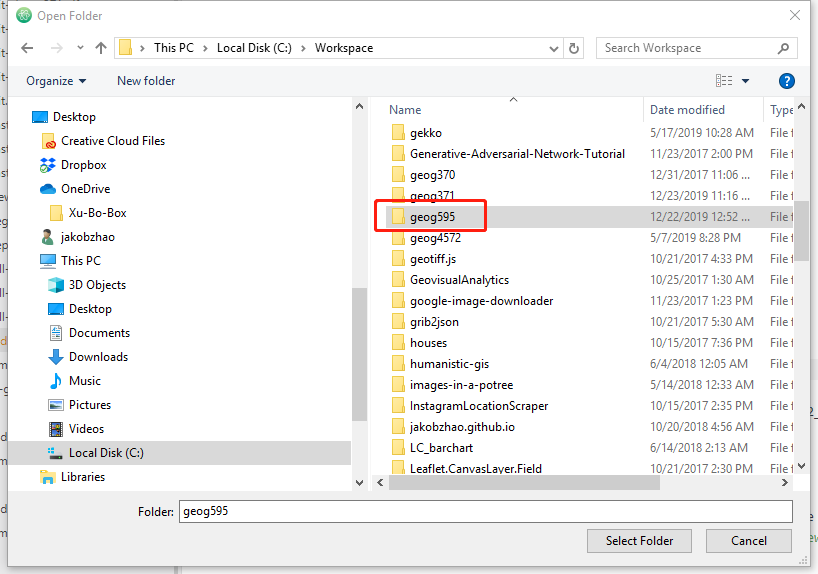
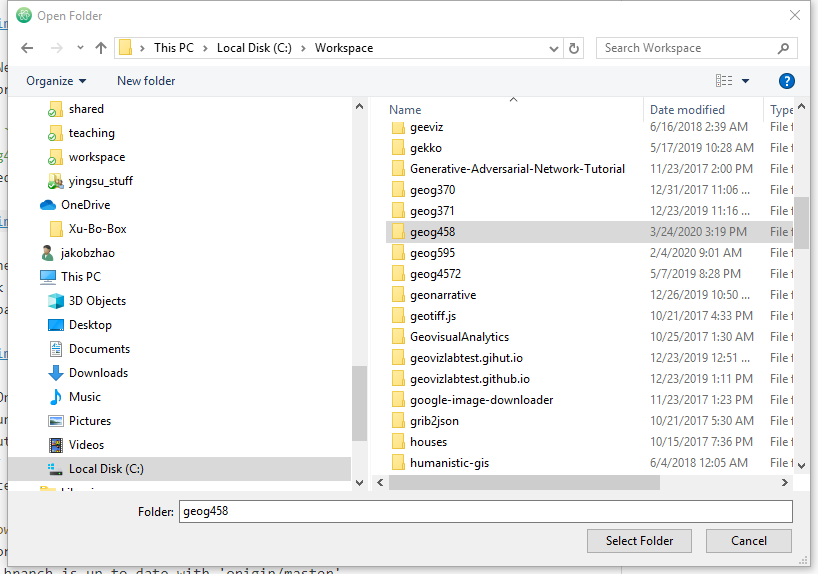
update

diff --git a/labs/lab01/readme.md b/labs/lab01/readme.md
@@ -52,11 +52,11 @@ A GitHub account is needed for managing and synchronizing your cloud based proje
 
 I decide to host all course material on GitHub instead of Canvas system. By doing so, my goal is not to create extra trouble or sharp the learn curve. Instead, hosting on github will help you save a lot of time in downloading or migrating course materials, testing lab or lecture applications. Also, more practically, a lot of companies in the geospatial industries have already used github for their project managment, such as [ESRI](https://github.com/Esri), [CartoBD](https://github.com/CartoDB), [MapBox](https://github.com/mapbox), and etc. To prepare you with the capabilities of using github, you will be familiar with an industry-level project management approach. In this lab, let us go through the procedure of downlaoding the course material as below.
 
-1\. On GitHub, each project is stored as a project repository. The repository for this course is located at [https://github.com/jakobzhao/geog595](https://github.com/jakobzhao/geog595). Please navigate to this url on a browser such as `Chrome`. As indicated by the course website url, this repository is created by me; my GitHub account name is `jakobzhao`, while the repository name is `geog595`.
+1\. On GitHub, each project is stored as a project repository. The repository for this course is located at [https://github.com/jakobzhao/geog485](https://github.com/jakobzhao/geog485). Please navigate to this url on a browser such as `Chrome`. As indicated by the course website url, this repository is created by me; my GitHub account name is `jakobzhao`, while the repository name is `geog485`.
 
 2\. On the front page of this repository, please click the green button named after `Clone or download` . To download the course material, you can click the `Download ZIP` button, as a result, a compressed file of the course material will be downloaded.
 
-3\. However, **we recommend you to clone this project repository**. You can get the **git url** of this repository on the same information window. The git url is [https://github.com/jakobzhao/geog595.git](https://github.com/jakobzhao/geog595.git).
+3\. However, **we recommend you to clone this project repository**. You can get the **git url** of this repository on the same information window. The git url is [https://github.com/jakobzhao/geog485.git](https://github.com/jakobzhao/geog485.git).
 
 4\. Next, open your working space on your local computer through command prompt if you are on Windows or through terminal if you are on a Mac. Here, the working space is just a centralized folder on your local computer where you can store your working materials. For me, I created a working folder to locally store my github repositories. For example, the working space of my computer is located as `C:\Workspace`. But it is up to you under which folder or path to put the workspace folder.
 
@@ -65,11 +65,11 @@ C:\Users\[windows_or_macosx_username]>cd C:\Workspace
 C:\Workspace>
 ```
 
-5\. Once acquiring the **git url** -  https://github.com/jakobzhao/geog595.git, we use the command `git clone` to clone the GitHub repository to your local computer.
+5\. Once acquiring the **git url** -  https://github.com/jakobzhao/geog485.git, we use the command `git clone` to clone the GitHub repository to your local computer.
 
  ```powershell
-C:\Workspace\>git clone https://github.com/jakobzhao/geog595.git
-Cloning into 'geog595'...
+C:\Workspace\>git clone https://github.com/jakobzhao/geog485.git
+Cloning into 'geog485'...
 remote: Counting objects: 962, done.
 remote: Compressing objects: 100% (750/750), done.
 remote: Total 962 (delta 214), reused 917 (delta 177), pack-reused 0Receiving objects:  99% (953/962), 158.77 MiB | 1.60 MiB/s
@@ -81,13 +81,13 @@ Checking out files: 100% (650/650), done.
 6\. To review the files and folders in the downloaded/cloned repository, you need to `cd` into the root directory of this repository. If you are on a Mac or Linux, type `ls` to check the file list of this repository, or try `dir` if you are on a Windows. Take windows for example.
 
 ```powershell
-C:\Workspace>cd geog595
+C:\Workspace>cd geog485
 
-C:\Workspace\geog595>dir
+C:\Workspace\geog485>dir
 Volume in drive C has no label.
 Volume Serial Number is 3E8C-9A9E
 
-Directory of C:\Workspace\geog595
+Directory of C:\Workspace\geog485
 
 12/22/2019  12:52 AM    <DIR>          .
 12/22/2019  12:52 AM    <DIR>          ..
@@ -108,13 +108,13 @@ Directory of C:\Workspace\geog595
              12 Dir(s)  300,063,776,768 bytes free
 ```
 
-In the root directory of geog595, there are folders like 01_intro, 02_cyber, and files like readme.md and LICENSE.
+In the root directory of geog485, there are folders like 01_intro, 02_cyber, and files like readme.md and LICENSE.
 
-![](img/git-clone-geog595.gif)
+![](img/git-clone-geog485.gif)
 
 7\. Next, we open the `readme.md` file using `Atom`. To do that, make sure you have installed the program `Atom` and the recommended packages, such as `markdown-preview-enhanced`.
 
-Once `Atom` is opened, press `crtl+shift+a` to open the open project dialog window, naviagte to `geog595` folder from your workspace and press `select folder`. Then the `geog595` repo will be opened, and a file tree will be shown in the project list panel on the left of the atom editor.
+Once `Atom` is opened, press `crtl+shift+a` to open the open project dialog window, naviagte to `geog485` folder from your workspace and press `select folder`. Then the `geog485` repo will be opened, and a file tree will be shown in the project list panel on the left of the atom editor.
 
 ![](img/atom-open-project.png)
 
@@ -125,15 +125,15 @@ In the project list panel, navigate to the `readme.md` in the project tree panel
 8\. Once the course material is hosted on GitHub, it can be easily shared with a larger community. To synchronize the course material on remote GitHub repository to your local computer, you need to implement two sequential command lines `git checkout --force` and `git pull` in the root directory of the repository. Once the two commands are executed. An update notice will be shown as below.
 
 ```powershell
-C:\Workspace\geog595>git checkout --force
+C:\Workspace\geog485>git checkout --force
 Your branch is up-to-date with 'origin/master'.
 
-C:\Workspace\geog595>git pull
+C:\Workspace\geog485>git pull
 remote: Counting objects: 3, done.
 remote: Compressing objects: 100% (3/3), done.
 remote: Total 3 (delta 2), reused 0 (delta 0), pack-reused 0
 Unpacking objects: 100% (3/3), done.
-From https://github.com/jakobzhao/geog595
+From https://github.com/jakobzhao/geog485
    13b2cab..baf74b1  master     -> origin/master
 Updating 13b2cab..baf74b1
 Fast-forward
@@ -149,7 +149,7 @@ If you implement the above two commands in a Mac or Linux system, you might need
 
 9\. Before we jump to the next section, please:
 
-- Star the course repository [https://github.com/jakobzhao/geog595](https://github.com/jakobzhao/geog595) by pressing the `star` button on the top right, and;
+- Star the course repository [https://github.com/jakobzhao/geog485](https://github.com/jakobzhao/geog485) by pressing the `star` button on the top right, and;
 
 - Navigate to Dr. Zhao's front page at [https://github.com/jakobzhao](https://github.com/jakobzhao), and click the `Follow` button to be a follower.
 
